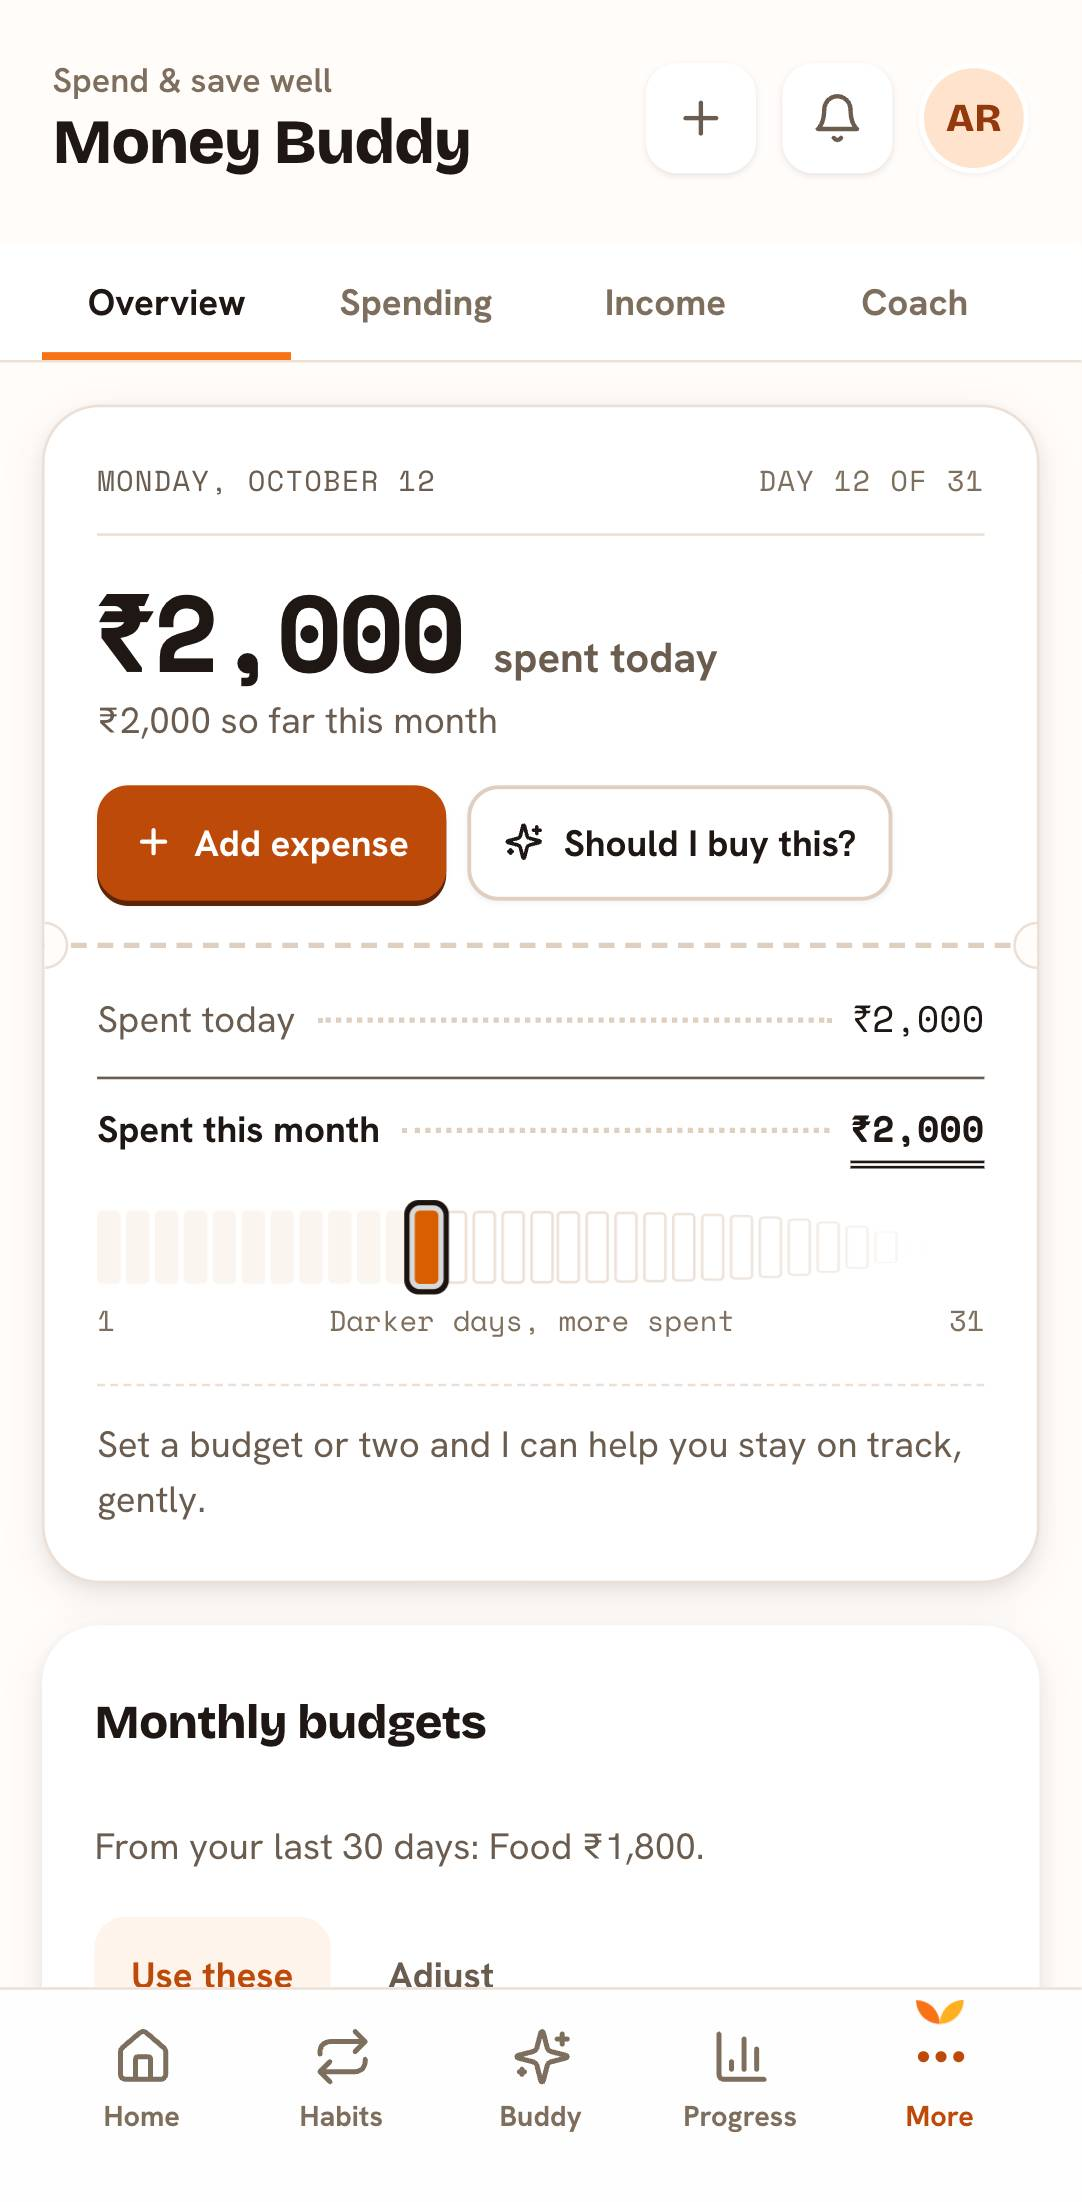
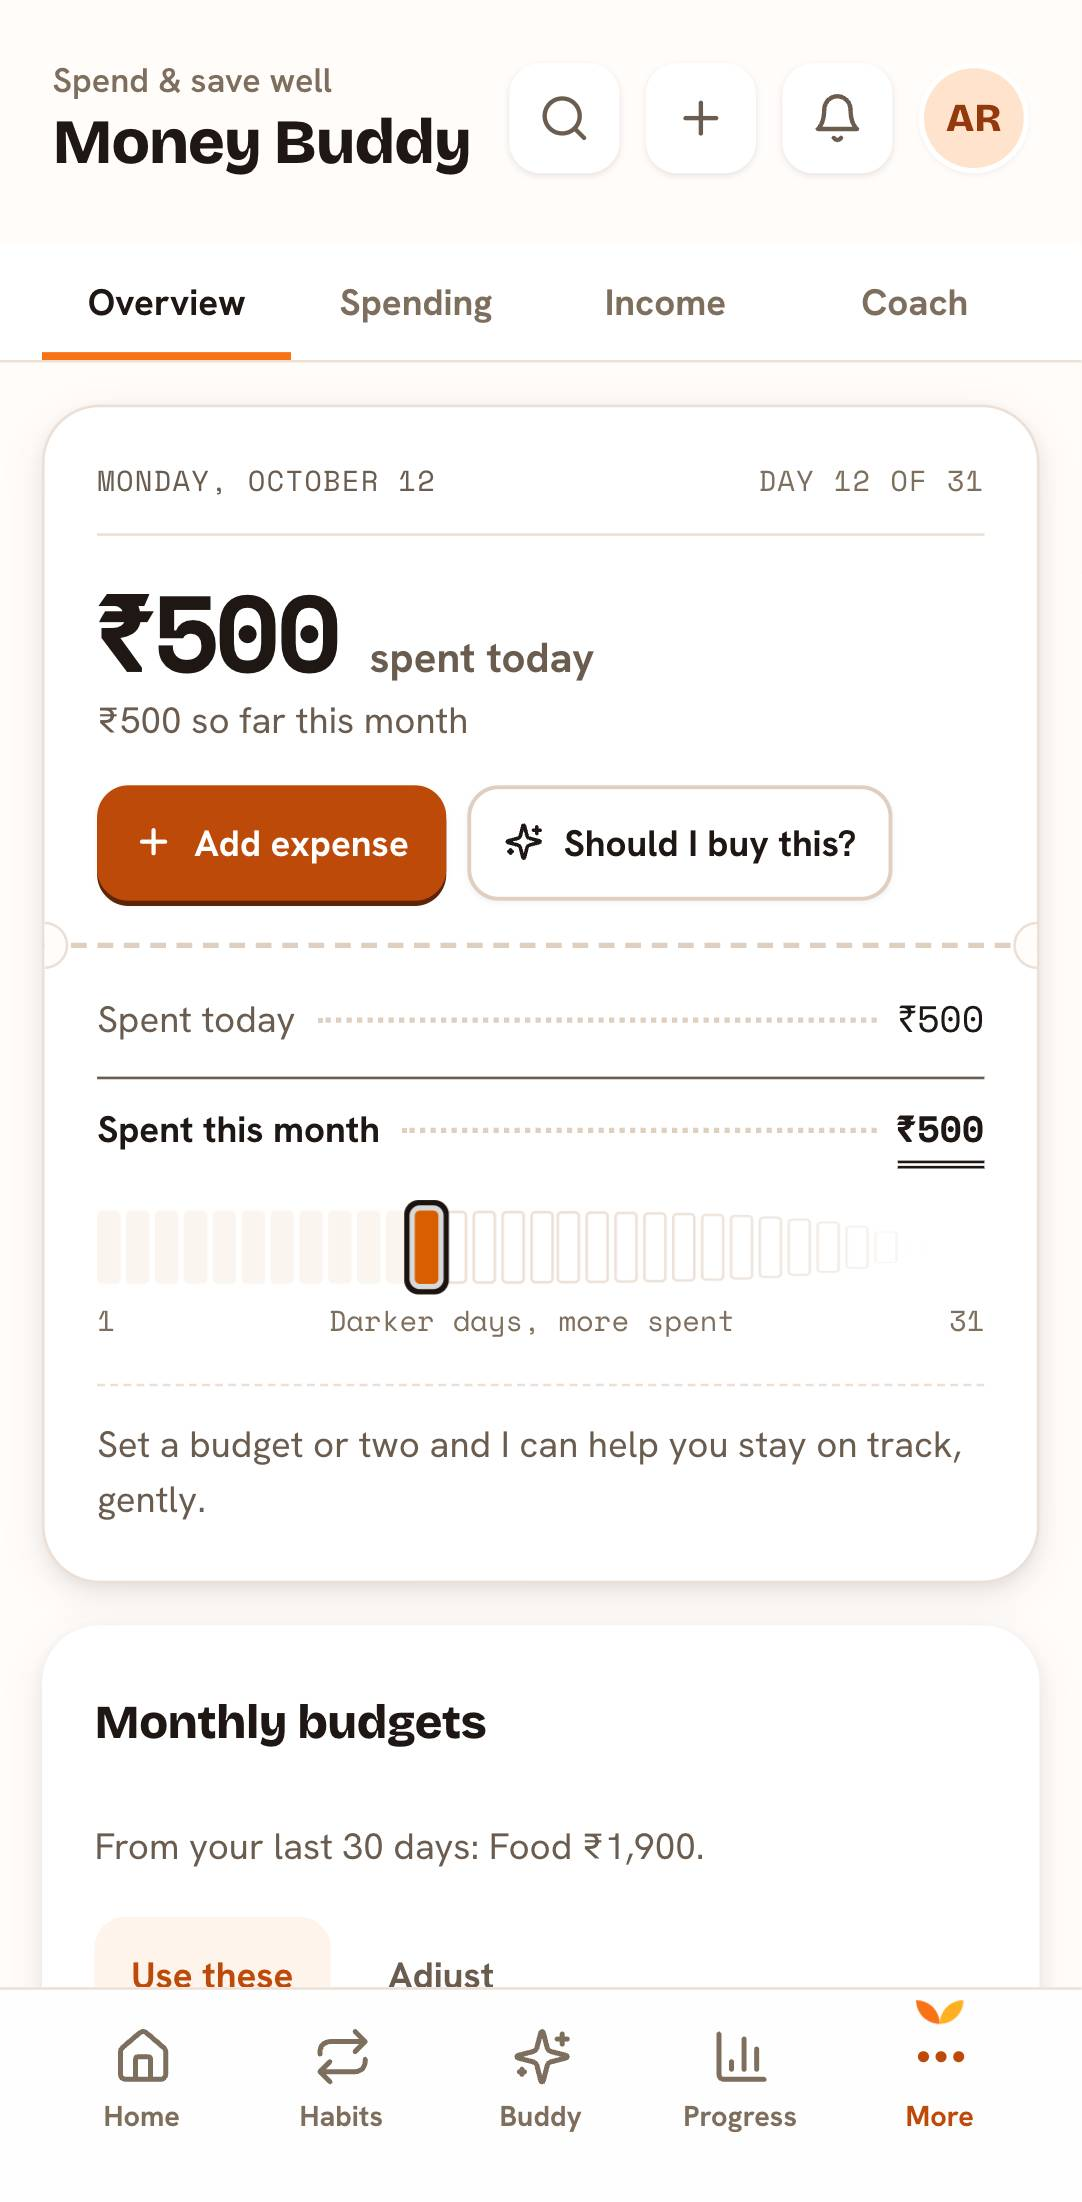
fix(money): day one reads right: no budget from one lunch, no missing-money warning, spent without a minus, savings goal wording
NEW-1: suggestBudgets needs 14+ days of history, scales shorter history to a
month, rounds down (225 no longer becomes 250), and skips a tag already past
its amount this month. The Set budgets hints round down too.
NEW-2: balances never set: a negative balance reads Not set, no
"isn't logged" warning, no negative total.
NEW-11: Spent so far prints the spend unsigned.
NEW-12: the health card asks for a savings goal.

diff --git a/scripts/money.js b/scripts/money.js
@@ -956,6 +956,24 @@ function dailyTip(money) {
 }
 
 /* 14 — financial health score (0–100) with component breakdown. */
+/* One-tap budgets from real spending: 10% under each tag's last 30 days, scaled up
+   to a month when the history is shorter, rounded DOWN to 50 (to the nearest, 250 x
+   0.9 = 225 came back as 250). Under 14 days of history there is no month to stand
+   on (one lunch became the month's Food budget, used up on day one): nothing. A tag
+   already past its amount this month is left out too. */
+function suggestBudgets(money) {
+  const today = todayKey();
+  const first = money.expenses.reduce((a, e) => (e && e.date && e.date < a ? e.date : a), today);
+  const days = Math.min(30, diffDays(today, first) + 1);
+  if (days < 14) return [];
+  const last30 = byCategory(inRange(money.expenses, lastNDays(30)[0], today), money);
+  const month = byCategory(inRange(money.expenses, thisMonthPrefix() + '-01', today), money);
+  return mergedCats(money)
+    .filter((c) => last30[c.key] > 0)
+    .map((c) => ({ c, amt: Math.max(50, Math.floor((last30[c.key] * (30 / days) * 0.9) / 50) * 50) }))
+    .filter((x) => x.amt > (month[x.c.key] || 0));
+}
+
 function financialHealth(money) {
   const parts = [];
   const mExp = inRange(money.expenses, thisMonthPrefix() + '-01', todayKey());
@@ -991,7 +1009,7 @@ function financialHealth(money) {
     score: sav,
     max: 20,
     fix: money.goals.length ? null : 'goal',
-    note: recentSave > 0 ? `${fmt(recentSave)} set aside lately` : 'Add to a goal to build this',
+    note: recentSave > 0 ? `${fmt(recentSave)} set aside lately` : 'Put money in a savings goal to build this',
   });
   const from14 = dkey(addDays(new Date(), -13));
   const logged14 = loggedDays(
@@ -1028,7 +1046,7 @@ function financialHealth(money) {
     fix: money.goals.length ? null : 'goal',
     note: money.goals.length
       ? `avg ${Math.round(money.goals.reduce((a, g) => a + goalPlan(g).pct, 0) / money.goals.length)}% to target`
-      : 'Create a goal to score this',
+      : 'Start a savings goal to score this',
   });
   const score = parts.reduce((a, p) => a + p.score, 0);
   const weakest = parts.slice().sort((a, b) => a.score / a.max - b.score / b.max)[0];
@@ -3098,11 +3116,13 @@ function ScreenMoney({
     // Nothing tells us what was in the purse before the app, so ask once:
     // answered = Set balances saved, or any opening balance typed. An expense booked
     // to an account is not an answer (the first one left Cash at -349). A cash or
-    // bank balance below zero asks again; a card's owed amount is fine.
-    const negative = list.find((a) => a.kind !== 'card' && Number(a.balance) < 0);
-    const needsSetup =
-      negative ||
-      (!money.settings.accountsSetUp && list.every((a) => !Number(a.openingBalance)));
+    // bank balance below zero asks again; a card's owed amount is fine. Never told,
+    // a balance below zero is only the spending so far (the first lunch made Cash
+    // -250 and "money came in that isn't logged"): it reads "Not set", no warning.
+    const unset = !money.settings.accountsSetUp && list.every((a) => !Number(a.openingBalance));
+    const hidden = (a) => unset && Number(a.balance) < 0;
+    const negative = !unset && list.find((a) => a.kind !== 'card' && Number(a.balance) < 0);
+    const needsSetup = negative || unset;
     return Card({
       className: 'gb-money-card',
       children: [
@@ -3166,9 +3186,9 @@ function ScreenMoney({
               'button',
               {
                 type: 'button',
-                class: 'gb-money-account' + (Number(a.balance) < 0 ? ' is-negative' : ''),
+                class: 'gb-money-account' + (Number(a.balance) < 0 && !hidden(a) ? ' is-negative' : ''),
                 onclick: () => openEditAccount(a),
-                'aria-label': a.name + ', ' + fmtBalance(money, a) + '. Edit',
+                'aria-label': a.name + ', ' + (hidden(a) ? 'balance not set' : fmtBalance(money, a)) + '. Edit',
               },
               h(
                 'span',
@@ -3187,8 +3207,8 @@ function ScreenMoney({
               h(
                 'span',
                 { class: 'gb-money-account-bal' },
-                fmtBalance(money, a),
-                accCurrency(money, a.id) && fxRate(money, accCurrency(money, a.id))
+                hidden(a) ? 'Not set' : fmtBalance(money, a),
+                !hidden(a) && accCurrency(money, a.id) && fxRate(money, accCurrency(money, a.id))
                   ? h('span', { class: 'gb-money-account-home' }, fmt(a.balance))
                   : null
               )
@@ -3196,14 +3216,14 @@ function ScreenMoney({
           )
         ),
         // A card below zero is what it owes; only cash / bank / wallet below zero is odd.
-        list.some((a) => a.kind !== 'card' && Number(a.balance) < 0)
+        negative
           ? h(
               'p',
               { class: 'gb-money-intro' },
               "A balance below zero usually means some money came in that isn't logged. Tap the account to set what it really holds."
             )
           : null,
-        list.length > 1
+        list.length > 1 && !(unset && total < 0)
           ? h(
               'div',
               { class: 'gb-money-accounts-total' },
@@ -3597,7 +3617,7 @@ function ScreenMoney({
         min: '0',
         step: '1',
         max: '10000000',
-        placeholder: last30[c.key] > 0 ? String(Math.max(50, Math.round((last30[c.key] * 0.9) / 50) * 50)) : '',
+        placeholder: last30[c.key] > 0 ? String(Math.max(50, Math.floor((last30[c.key] * 0.9) / 50) * 50)) : '',
         'aria-label': c.label + ' monthly budget',
         value: money.budgets[c.key] ? String(money.budgets[c.key]) : '',
       }),
@@ -4614,7 +4634,7 @@ function ScreenMoney({
     const statement = hasBudget
       ? [
           line('Budget for ' + monthName, fmt(totalBudget)),
-          line('Spent so far', fmt(-spentMonth)),
+          line('Spent so far', fmt(spentMonth)),
           spentMonth > totalBudget
             ? line('Over budget', fmt(spentMonth - totalBudget), 'is-total is-over')
             : line('Left this month', fmt(totalBudget - spentMonth), 'is-total'),
@@ -4745,7 +4765,7 @@ function ScreenMoney({
       hs.score >= 70 ? 'var(--success)' : hs.score >= 45 ? 'var(--warning)' : 'var(--brand)';
     const FIX = {
       budgets: { label: 'Set budgets', icon: 'target', run: openSetBudgets },
-      goal: { label: 'Create a goal', icon: 'sprout', run: () => openAddGoal(false) },
+      goal: { label: 'Start a savings goal', icon: 'sprout', run: () => openAddGoal(false) },
       log: { label: 'Add expense', icon: 'plus', run: () => openAddExpense() },
     };
     // Two parts can share one fix (no goals zeroes both goal parts): one button each.
@@ -5762,14 +5782,11 @@ function ScreenMoney({
   function budgetsSection() {
     const st = budgetStatus(money);
     const anySet = st.some((s) => s.base > 0);
-    // None set: one short card, with a one-tap set from the last 30 days when there
-    // is spending (10% under each tag, as the dialog's hints), so budgets aren't
-    // only reachable from the health card at the bottom.
+    // None set: one short card, with a one-tap set from the last 30 days once there
+    // are two weeks of spending (suggestBudgets), so budgets aren't only reachable
+    // from the health card at the bottom.
     if (!anySet) {
-      const last30 = byCategory(inRange(money.expenses, lastNDays(30)[0], todayKey()), money);
-      const sugg = mergedCats(money)
-        .filter((c) => last30[c.key] > 0)
-        .map((c) => ({ c, amt: Math.max(50, Math.round((last30[c.key] * 0.9) / 50) * 50) }));
+      const sugg = suggestBudgets(money);
       return [
         Card({
           className: 'gb-money-card',
@@ -7523,4 +7540,5 @@ export const _calc = {
   advise,
   goalPlan,
   achievementTimeline,
+  suggestBudgets,
 };

diff --git a/docs/scripts/money.js.md b/docs/scripts/money.js.md
@@ -122,9 +122,9 @@ Customise → Other currencies.
 
 | Fn | Contents |
 |---|---|
-| `tabOverview` | **today hero = the statement slip** (date + "Day N of M" head; what's left for today; past its share, tomorrow's new daily share, never the overshoot as the headline; a perforated tear, then the month's statement lines: budget, spent, left under a rule and double underline, or spent today / this month with no budget) + **`monthTape`** (one cell per day: under / close / over a flat daily share, or depth by spend with no budget; no-spend ringed, today outlined; display-only, cells are far under a 44px target, so a day opens from Spending's 7-day graph; fills in on a visit's first paint only, `tapeShown`), then **`budgetsSection`**, `accountsCard`, donut, forecast, **`goalsSection`**, `healthCard` |
+| `tabOverview` | **today hero = the statement slip** (date + "Day N of M" head; what's left for today; past its share, tomorrow's new daily share, never the overshoot as the headline; a perforated tear, then the month's statement lines: budget, spent, left under a rule and double underline, or spent today / this month with no budget) + **`monthTape`** (one cell per day: under / close / over a flat daily share, or depth by spend with no budget; no-spend ringed, today outlined; display-only, cells are far under a 44px target, so a day opens from Spending's 7-day graph; fills in on a visit's first paint only, `tapeShown`), then **`budgetsSection`**, `accountsCard` (balances never set: a balance below zero reads "Not set", with no "isn't logged" warning and no negative total), donut, forecast, **`goalsSection`**, `healthCard` |
 | `tabSpending` | actions row (No-spend day is disabled, with the reason under it, once today has spending), last-7-days bars, by-tag breakdown, subscriptions, weekly review, NL search card (12 rows, then "Showing 12 of N. Show all"; rows open the edit dialog), then the expense list (a passbook page: `ledgerDay` heads each day, with the day's total when it has more than one entry; `expRow(..., underDay)` drops the repeated date under it). Subscriptions (due and **overdue** cards carry **Mark as paid**; overdue = this month's due day passed unpaid, it stays listed until paid), **expense list** (this month by default, a month `<select>` over the loaded months — `expMonth`, reset on a fresh visit — tag filter (scrolls sideways under a right-edge fade), heading "Expenses" when the month picker is beside it, 60 rows then **Show more**, `expShown`; **Load older** fetches ~200 rows before the earliest loaded date through the `requestOlderTx(before)` prop (`GET /api/money/tx?before=`; pages hold whole days, `more` says if there is another) into module-level `older`, merged by `withOlder` into the month list and CSV only — never into the document, its rows are read-only; a **CSV** button downloads `ledgerCsv`: every loaded expense / income / transfer, newest first, a leading `= + - @` defused, `original` column for foreign-currency rows) |
-| `budgetsSection` | ONE card (title, intro, bars; no totals row, the hero's statement says them) + ≥80% nudges + recovery card. Was the Budgets tab. None set: a short card offering budgets 10% under each tag's last 30 days ("Use these", one tap) or "Set budgets". The hero's statement counts only budgeted tags, spending in the others on its own line. |
+| `budgetsSection` | ONE card (title, intro, bars; no totals row, the hero's statement says them) + ≥80% nudges + recovery card. Was the Budgets tab. None set: a short card offering budgets from `suggestBudgets` ("Use these", one tap: 10% under each tag's last 30 days, scaled to a month, rounded down to 50; nothing under 14 days of history, no tag already past its amount this month) or "Set budgets". The hero's statement counts only budgeted tags, spending in the others on its own line. |
 | `goalsSection` | ONE card (title, plan/new-goal actions, goal list). Was the Goals tab; its wishlist moved to Coach. |
 | `tabIncome` | one kept-vs-spent bar for the month, the latest 6 income entries with their account (a row with no note shows `incomeName`: Salary / Income) (`showAllIncome` toggles all), **Every month** (`recurringCard`), loans (stats only when there are loans) |
 | `tabCoach` | challenges, **wishlist**, journey, insights, personality, tips, share |
